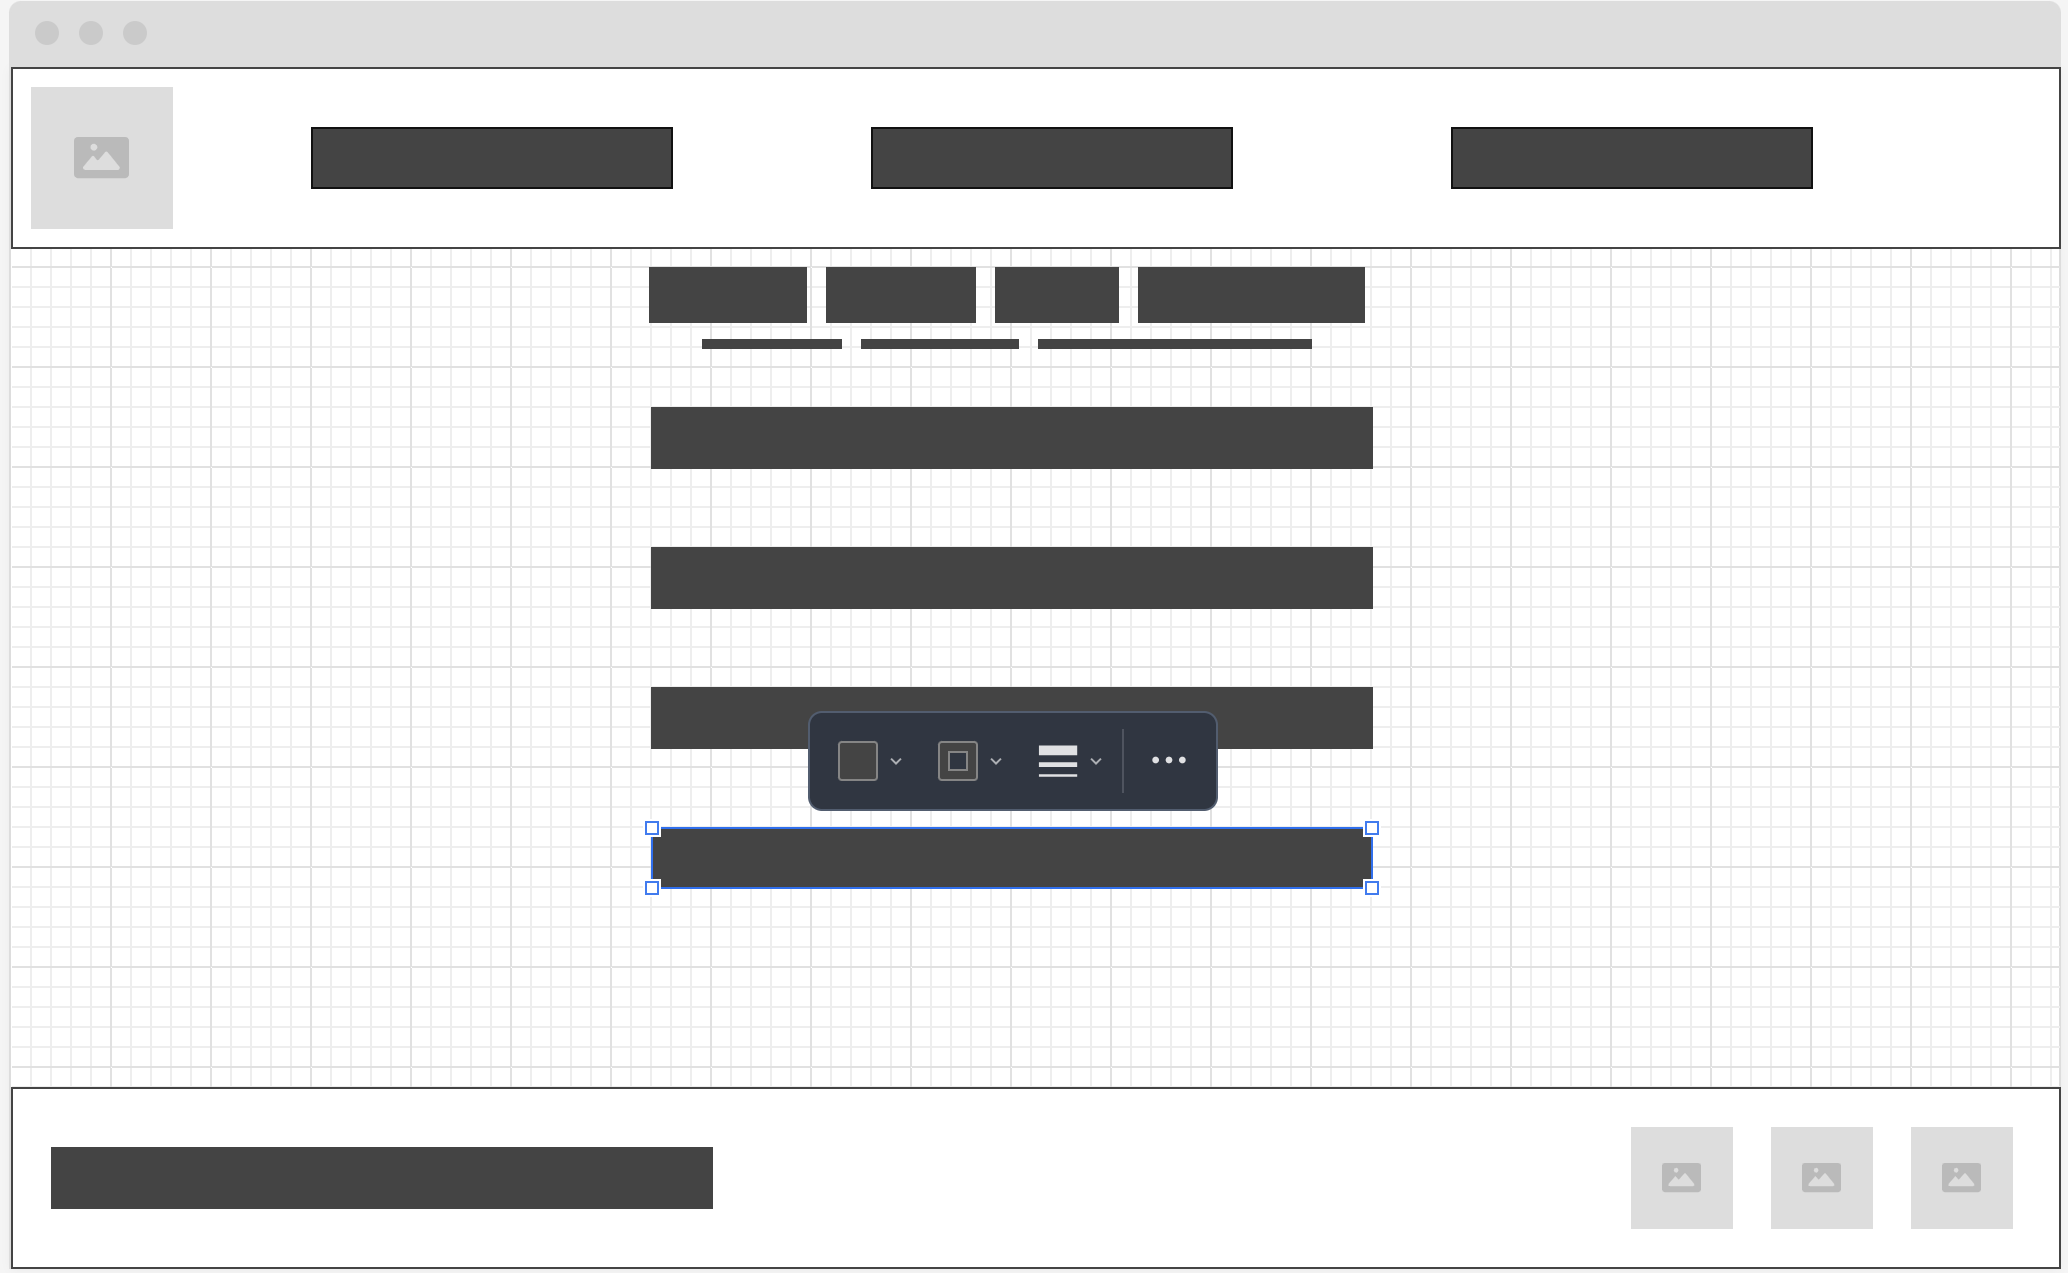
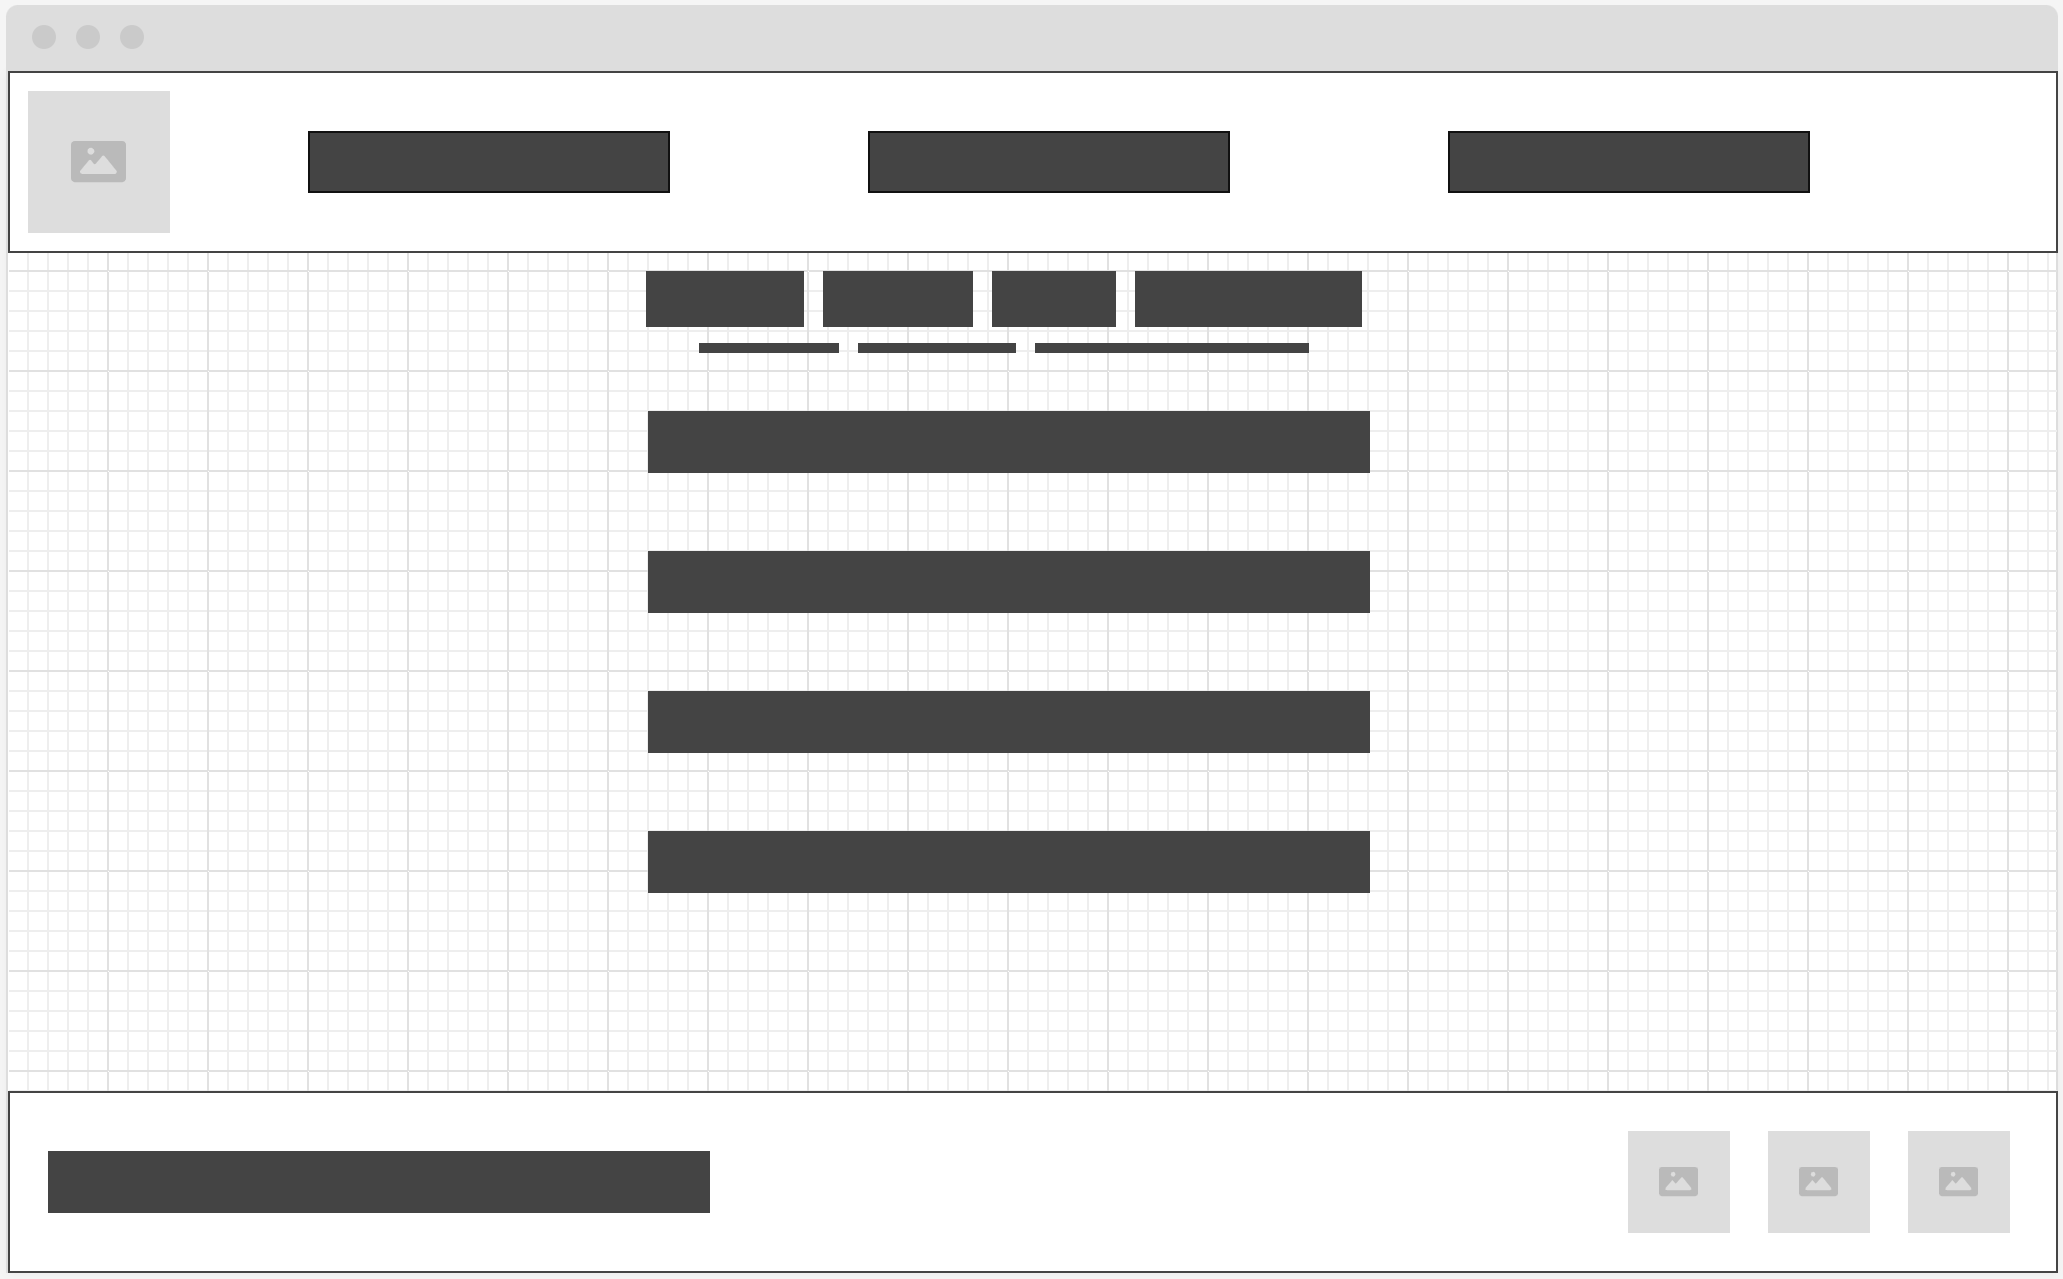
made image smaller

diff --git a/hobbybox/siteplan.html b/hobbybox/siteplan.html
@@ -161,21 +161,21 @@
 
       <h3>Home</h3>
       <p>         
-        I think there will be only two main boxes for now and I dont know exacly what needs to go in the rest of the stuff
+        I think there will be only two main boxes for now and I dont know exacly what needs to go in the rest of the stuff.
       </p>
-      <img src="images\hobbyboxmainwireframe.PNG" alt="home page wireframe">
+      <img class="wire" src="images\hobbyboxmainwireframe.PNG" alt="home page wireframe">
 
       <h3>Painting and Soap Carving</h3>
       <p>         
-        I think this is what I'm going to use for both pages 
+        I think this is what I'm going to use for both page.
       </p>
-      <img src="images\hobbyboxproductpagewireframe.PNG" alt="page 2 wireframe">
+      <img class="wire" src="images\hobbyboxproductpagewireframe.PNG" alt="page 2 wireframe">
 
       <h3>Contact Us</h3>
       <p>         
-        This will prabably change with what we learn next week. but either way I need either a Contact Us page or a way to buy it from the website and I think this will be easier.
+        This will prabably change with what we learn next week. But either way I need either a Contact Us page or a way to buy it from the website and I think this will be easier.
       </p>
-      <img src="images\hobbyboxcontactuswireframe.PNG" alt="page 3 wireframe">
+      <img class="wire" src="images\hobbyboxcontactuswireframe.PNG" alt="page 3 wireframe">
     </main>
   </body>
 

diff --git a/hobbybox/styles/siteplan.css b/hobbybox/styles/siteplan.css
@@ -176,3 +176,7 @@ nav a:hover {
   border-top: 1px solid;
   border-right: 1px solid;
 }
+
+.wire {
+  width: 600px;
+}
